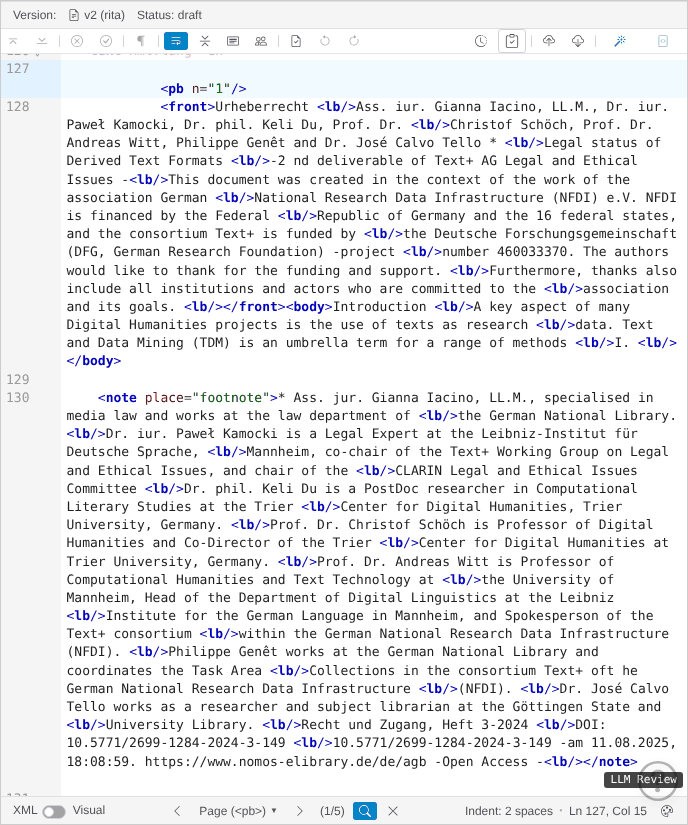
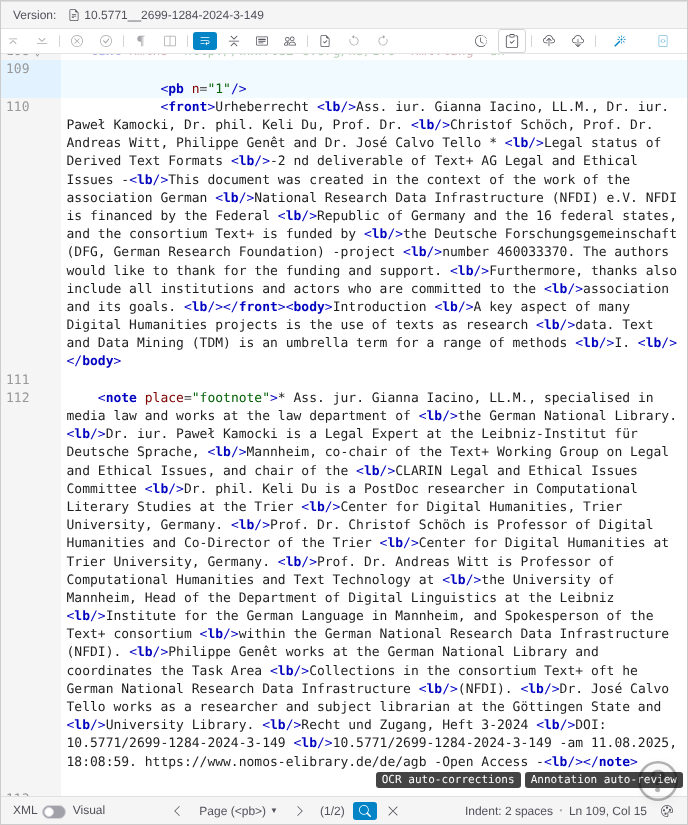
Merge pull request #81 from mpilhlt/claude/project-thread-9s4uw2
fix: clearer focus-mode button label, progress titles, disabled while running

Changed region(s): [[0.5494, 0.9091, 0.9157, 1.0], [0.1221, 0.0, 0.4884, 0.0606], [0.0305, 0.4545, 0.061, 0.4848]]

diff --git a/plugins/annotation-review/src/pte_plugin_annotation_review/extensions/annotation-review.js b/plugins/annotation-review/src/pte_plugin_annotation_review/extensions/annotation-review.js
@@ -7,7 +7,7 @@
  * merged into the editor's diagnostic set, each with a "Propose fix" action
  * that opens the merge view and a `replacement` that the diagnostics drawer
  * applies directly. When node navigation is on (the `xpath` state is
- * set), the "LLM Review" button of focus mode reviews only the navigated-to node (for a
+ * set), the "Annotation auto-review" button of focus mode reviews only the navigated-to node (for a
  * milestone such as `<pb/>`, the text up to the next one, e.g. a page); the
  * menu item always reviews the whole document. While the editor's unit review mode is
  * on, the model also records its result as a reviewer: the review units of each chunk
@@ -97,10 +97,14 @@ export default class AnnotationReviewExtension extends FrontendExtensionPlugin {
     this._layoutMissing = null;
     /** Button shown on the focused node in the XML editor's focus mode. */
     this._focusAction = {
-      label: 'LLM Review',
+      label: 'Annotation auto-review',
       title: 'Review the annotations of this node',
       run: () => { this.runReview(); },
     };
+    /** The focus-mode button while a review runs (disabled with editor cores that support it). */
+    this._focusActionBusy = { ...this._focusAction, disabled: true, title: 'A review is running' };
+    /** True while a review runs. */
+    this._running = false;
   }
 
   /**
@@ -236,17 +240,19 @@ export default class AnnotationReviewExtension extends FrontendExtensionPlugin {
   }
 
   /**
-   * Enable the menu item, and the "LLM Review" button on the node focused in
-   * focus mode, only if a document is open and has reviewable rules.
+   * Enable the menu item, and the "Annotation auto-review" button on the node focused in
+   * focus mode, only if a document is open and has reviewable rules; while a review runs, both
+   * are disabled.
    * No-op before start() has created the item.
    * @returns {void}
    */
   _updateMenuState() {
     if (!this._menuItem) return;
     const tree = this.getDependency('xmleditor').getXmlTree();
-    this._menuItem.disabled = !tree || !this.hasReviewableRules(tree) || this._layoutMissing !== null;
-    this._menuItem.title = this._layoutMissing ?? (this._menuItem.disabled ? 'Requires an open document whose editorialDecl has machine-readable annotation rules (a ref with subtype="machine").' : '');
-    this.getDependency('xmleditor').setFocusAction(SOURCE, this._menuItem.disabled ? null : this._focusAction);
+    const available = Boolean(tree) && this.hasReviewableRules(tree) && this._layoutMissing === null;
+    this._menuItem.disabled = !available || this._running;
+    this._menuItem.title = this._layoutMissing ?? (available ? '' : 'Requires an open document whose editorialDecl has machine-readable annotation rules (a ref with subtype="machine").');
+    this.getDependency('xmleditor').setFocusAction(SOURCE, available ? (this._running ? this._focusActionBusy : this._focusAction) : null);
   }
 
   /**
@@ -262,6 +268,7 @@ export default class AnnotationReviewExtension extends FrontendExtensionPlugin {
    * @returns {Promise<void>}
    */
   async runReview(override, options = {}) {
+    if (this._running) return;
     const resolved = override ?? this.getDependency('inference-settings').getDefaultModel();
     const xpath = options.wholeDocument ? null : (this.state?.xpath || null);
     let label = '';
@@ -288,7 +295,9 @@ export default class AnnotationReviewExtension extends FrontendExtensionPlugin {
     // findings of the review received so far, of which the display holds those not dismissed or applied
     let received = 0;
     let appended = 0;
-    progress.show(progressId, { label: heading, value: null, cancellable: true, onCancel: () => { cancelled = true; } });
+    this._running = true;
+    this._updateMenuState();
+    progress.show(progressId, { title: 'Annotation auto-review', label: heading, value: null, cancellable: true, onCancel: () => { cancelled = true; } });
     try {
       const findings = await this.review(resolved ?? undefined, {
         xpath,
@@ -339,6 +348,8 @@ export default class AnnotationReviewExtension extends FrontendExtensionPlugin {
         count ? 'info-circle' : 'check-circle'
       );
     } finally {
+      this._running = false;
+      this._updateMenuState();
       progress.hide(progressId);
     }
   }

diff --git a/plugins/auto-annotation/src/pte_plugin_auto_annotation/extensions/auto-annotation.js b/plugins/auto-annotation/src/pte_plugin_auto_annotation/extensions/auto-annotation.js
@@ -469,7 +469,7 @@ export default class AutoAnnotationExtension extends FrontendExtensionPlugin {
     const total = job.batches.reduce((sum, b) => sum + b.length, 0) + doubtBatches.reduce((sum, b) => sum + b.length, 0);
     let cancelled = false;
     let lockLost = false;
-    progress.show(progressId, { label: `${heading} (0 of ${transfer ? total : job.unit_count} ${unitName})`, value: 0, cancellable: true, onCancel: () => { cancelled = true; } });
+    progress.show(progressId, { title: transfer ? 'Annotation transfer' : 'Annotation auto-correction', label: `${heading} (0 of ${transfer ? total : job.unit_count} ${unitName})`, value: 0, cancellable: true, onCancel: () => { cancelled = true; } });
     const refresher = setInterval(() => {
       this.callPluginApi('/api/plugins/auto-annotation/correct/heartbeat', 'POST', jobBody).catch(() => { lockLost = true; });
     }, this._lockRefreshMs);

diff --git a/plugins/annotation-review/src/pte_plugin_annotation_review/tests/annotation-review.test.js b/plugins/annotation-review/src/pte_plugin_annotation_review/tests/annotation-review.test.js
@@ -404,13 +404,13 @@ describe('menu item', () => {
     assert.strictEqual(menuAdds[0].items[0].disabled, true);
   });
 
-  it('offers an "LLM Review" focus-mode button only while the review is available', async () => {
+  it('offers an "Annotation auto-review" focus-mode button only while the review is available', async () => {
     let guides = [{ category: 'p', refs: [{ target: 'x', contentType: null, subtype: 'machine' }] }];
     const { ext, handlers, focusActions } = buildExtension({ getEditorialDeclGuides: () => guides });
     await ext.start();
     handlers.editorReady();
     const action = focusActions['annotation-review'];
-    assert.strictEqual(action.label, 'LLM Review');
+    assert.strictEqual(action.label, 'Annotation auto-review');
     let ran = 0;
     ext.runReview = async () => { ran++; };
     action.run();

diff --git a/plugins/metadata-extraction/src/pte_plugin_metadata_extraction/routes.py b/plugins/metadata-extraction/src/pte_plugin_metadata_extraction/routes.py
@@ -130,6 +130,8 @@ async def backfill_collection_metadata(
 
     progress = ProgressBar(sse_service, session_id)
     progress.show(label=f"Backfilling metadata in collection {collection}...")
+    if hasattr(progress, "set_title"):  # widget titles need an editor core with ProgressBar.set_title()
+        progress.set_title("Metadata backfill")
     await asyncio.sleep(0)
 
     def on_progress(current: int, total: int, label: str) -> None:

diff --git a/plugins/grobid/src/pte_plugin_grobid/routes.py b/plugins/grobid/src/pte_plugin_grobid/routes.py
@@ -606,6 +606,8 @@ async def download_training_package(
                 cancellable=True,
                 cancel_url=cancel_url
             )
+            if hasattr(progress, "set_title"):  # widget titles need an editor core with ProgressBar.set_title()
+                progress.set_title("GROBID training package")
             await asyncio.sleep(0)  # Yield to allow SSE event delivery
 
         try:

diff --git a/plugins/update-metadata/src/pte_plugin_update_metadata/routes.py b/plugins/update-metadata/src/pte_plugin_update_metadata/routes.py
@@ -266,6 +266,8 @@ async def execute_update(
         cancellable=True,
         cancel_url=f"/api/plugins/update-metadata/cancel/{progress.progress_id}"
     )
+    if hasattr(progress, "set_title"):  # widget titles need an editor core with ProgressBar.set_title()
+        progress.set_title("Metadata update")
     await asyncio.sleep(0)  # Yield to allow SSE event delivery
 
     try:

diff --git a/plugins/annotation-review/README.md b/plugins/annotation-review/README.md
@@ -7,12 +7,12 @@ Reviews the annotations in the open TEI document against the annotation rules th
 ### What it contributes
 
 - A **Review document annotations** item in the Tools menu (under "Annotation"). It always reviews the whole document with the model selected in **Tools > Inference**, also while node navigation has selected a node. It is enabled only when the open document's `teiHeader/encodingDesc/editorialDecl` contains a rule reference with `subtype="machine"` (a link to a machine-readable rules file, usually raw Markdown). Otherwise it is disabled and a tooltip explains why.
-- An **LLM Review** button on the focused node in the XML editor's focus mode, which reviews only that node, without a confirmation dialog.
+- An **Annotation auto-review** button on the focused node in the XML editor's focus mode, which reviews only that node, without a confirmation dialog.
 - A confirmation dialog naming the provider/model that will be used, then a progress widget (minimizable, with a cancel button) that shows "part i of n" while the document is reviewed piece by piece.
 - Suggestions as info-level diagnostics in the diagnostics drawer and the editor gutter, merged with the TEI validation diagnostics. Each carries the model's rationale and a "Propose fix" button; checked suggestions can also be applied in one go with the drawer's **Apply** button, or dismissed.
 - A per-tab session cache of the suggestions (browser session storage, keyed by document): after a page reload or after switching documents and back, the suggestions of the document are shown again without a new review. Suggestions whose quoted text no longer occurs exactly once in the loaded document are dropped, so applied ones are removed from the cache; dismissed ones are removed too. The cache is gone when the tab is closed.
 
-**Zone documents** (variants whose extractor declares `zoneLabels`, such as GROBID's `grobid.training.segmentation`) are reviewed by page (`zones.py`, editor plugin API 1.5): the model gets windows of two whole pages of the document's line layout as numbered lines with zone labels and layout hints, plus five lines of context, and answers with a JSON list of label changes (`{"lines": "0413-0420", "label": "body", "rationale": ...}` or `{"line": "0412", "pieces": "[page]12 [note:headnote]...", "rationale": ...}`). Changes outside the window, with unknown labels, changed text or without effect are dropped. The server turns each change into a suggestion of the usual form, whose quoted text runs from the zone tags before the changed lines to those after them, widened until it occurs only once; suggestions whose texts touch are merged. Every page of a reviewed window is marked in review mode. **LLM Review** in focus mode on a zone reviews the pages the zone lies on. Without the layout (no cached feature file of the document's extraction), the menu item and the focus action are disabled with the reason as tooltip.
+**Zone documents** (variants whose extractor declares `zoneLabels`, such as GROBID's `grobid.training.segmentation`) are reviewed by page (`zones.py`, editor plugin API 1.5): the model gets windows of two whole pages of the document's line layout as numbered lines with zone labels and layout hints, plus five lines of context, and answers with a JSON list of label changes (`{"lines": "0413-0420", "label": "body", "rationale": ...}` or `{"line": "0412", "pieces": "[page]12 [note:headnote]...", "rationale": ...}`). Changes outside the window, with unknown labels, changed text or without effect are dropped. The server turns each change into a suggestion of the usual form, whose quoted text runs from the zone tags before the changed lines to those after them, widened until it occurs only once; suggestions whose texts touch are merged. Every page of a reviewed window is marked in review mode. **Annotation auto-review** in focus mode on a zone reviews the pages the zone lies on. Without the layout (no cached feature file of the document's extraction), the menu item and the focus action are disabled with the reason as tooltip.
 
 The rules to review against are taken from the document, not from server configuration: every `editorialDecl` category with a machine-readable ref is fetched (via the shared rule cache in `data/annotation-rules/cache`) and included in the prompt.
 

diff --git a/plugins/grobid/src/pte_plugin_grobid/docs/llm-review-tutorial.md b/plugins/grobid/src/pte_plugin_grobid/docs/llm-review-tutorial.md
@@ -61,13 +61,13 @@ The node navigation in the statusbar of the XML editor moves through the documen
 
 The magnifier button next to the counter switches on focus mode: everything outside the current part is dimmed, so that you can concentrate on it. **‹** and **›** (or the arrow keys) move to the previous or next part, and the counter shows where you are, for example `1/5` for the first of five pages. See [XPath Navigation](https://github.com/mpilhlt/pdf-tei-editor/blob/main/docs/user-manual/editing-workflow.md#xpath-navigation) and [Focus Mode](https://github.com/mpilhlt/pdf-tei-editor/blob/main/docs/user-manual/editing-workflow.md#focus-mode) in the user manual for details.
 
-![The XML editor in focus mode with the first page in focus, the rest of the document dimmed, the LLM Review button at the bottom right of the page, and the statusbar showing Page (pb) at 1/5](images/focus-page.png)
+![The XML editor in focus mode with the first page in focus, the rest of the document dimmed, the OCR auto-corrections and Annotation auto-review buttons at the bottom right of the page, and the statusbar showing Page (pb) at 1/2](images/focus-page.png)
 
-*The first page in focus mode, with the LLM Review button.*
+*The first page in focus mode, with the Annotation auto-review button.*
 
 ## 4. Review a part
 
-Click **LLM Review** at the bottom right of the part in focus. The model reads this part, and its suggestions appear in the **Diagnostics** panel on the left and as underlined text in the editor. Each suggestion explains what the model would change and why.
+Click **Annotation auto-review** at the bottom right of the part in focus. The model reads this part, and its suggestions appear in the **Diagnostics** panel on the left and as underlined text in the editor. Each suggestion explains what the model would change and why.
 
 ![The Diagnostics panel with a suggestion of the LLM Reviewer explaining that the last three lines of the page are not part of the footnote, with the buttons Propose fix and Apply fix, next to the XML editor with the affected text underlined](images/llm-suggestion.png)
 

diff --git a/plugins/annotation-review/src/pte_plugin_annotation_review/docs/models-and-cost.md b/plugins/annotation-review/src/pte_plugin_annotation_review/docs/models-and-cost.md
@@ -1,6 +1,6 @@
 # LLM Reviewer: models and cost
 
-This page is for administrators. It describes how to control which language models the LLM Reviewer (**Tools** > **Review document annotations** and the **LLM Review** button in focus mode) can use, what a review costs, and what to tell users when a review fails. How users choose a model is described in [Choosing a language model](https://github.com/mpilhlt/pdf-tei-editor/blob/main/docs/user-manual/language-models.md).
+This page is for administrators. It describes how to control which language models the LLM Reviewer (**Tools** > **Review document annotations** and the **Annotation auto-review** button in focus mode) can use, what a review costs, and what to tell users when a review fails. How users choose a model is described in [Choosing a language model](https://github.com/mpilhlt/pdf-tei-editor/blob/main/docs/user-manual/language-models.md).
 
 ## The default model
 
@@ -41,7 +41,7 @@ The models of providers that run on the user's own key are not filtered.
 
 The reviewer sends the document to the model in parts of about 8,000 characters, one request after the other, and sends the annotation rules with every part. The cost of a review is therefore roughly the size of the rules times the number of parts, plus the document once. Segmentation documents are reviewed two pages at a time instead.
 
-Reviewing a whole paper can take several minutes and, with a paid model, costs money each time. Reviewing single parts with **LLM Review** in focus mode is faster and cheaper. To keep the cost under control, make a free or inexpensive model the default and restrict the paid models with the filters above.
+Reviewing a whole paper can take several minutes and, with a paid model, costs money each time. Reviewing single parts with **Annotation auto-review** in focus mode is faster and cheaper. To keep the cost under control, make a free or inexpensive model the default and restrict the paid models with the filters above.
 
 ## When a review fails
 

diff --git a/plugins/grobid/README.md b/plugins/grobid/README.md
@@ -29,7 +29,7 @@ Segmentation documents mark the start of every PDF page with `<pb n="…"/>` (`n
 
 For documents extracted before, the TEI Wizard enhancement **Insert page breaks** adds the missing `<pb/>` elements from the cached feature file (fetch it with [Reload feature file](#reload-feature-file) if it is missing) and shows the result in the merge view. Running it again adds nothing to pages that have a `<pb/>`. When the feature file is cached, the sync-check lint warns about a `<pb/>` that is not near a page start and a `<pb/>` whose `n` is not its page number. Missing `<pb/>` elements get no warning.
 
-The node navigation of the XML editor offers **Page (`<pb>`)** for segmentation documents: it moves from page to page, focus mode focuses the whole page (from its `<pb/>` to the next one), and the **LLM Review** button of focus mode reviews that page.
+The node navigation of the XML editor offers **Page (`<pb>`)** for segmentation documents: it moves from page to page, focus mode focuses the whole page (from its `<pb/>` to the next one), and the **Annotation auto-review** button of focus mode reviews that page.
 
 In the XML editor's visual mode, `<lb/>` appears as a read-only badge in all GROBID training variants, and `<pb/>` in segmentation documents: they mark the layout of the PDF and cannot be edited there (`read_only` in `config/annotation_tags_scope.py`).
 
